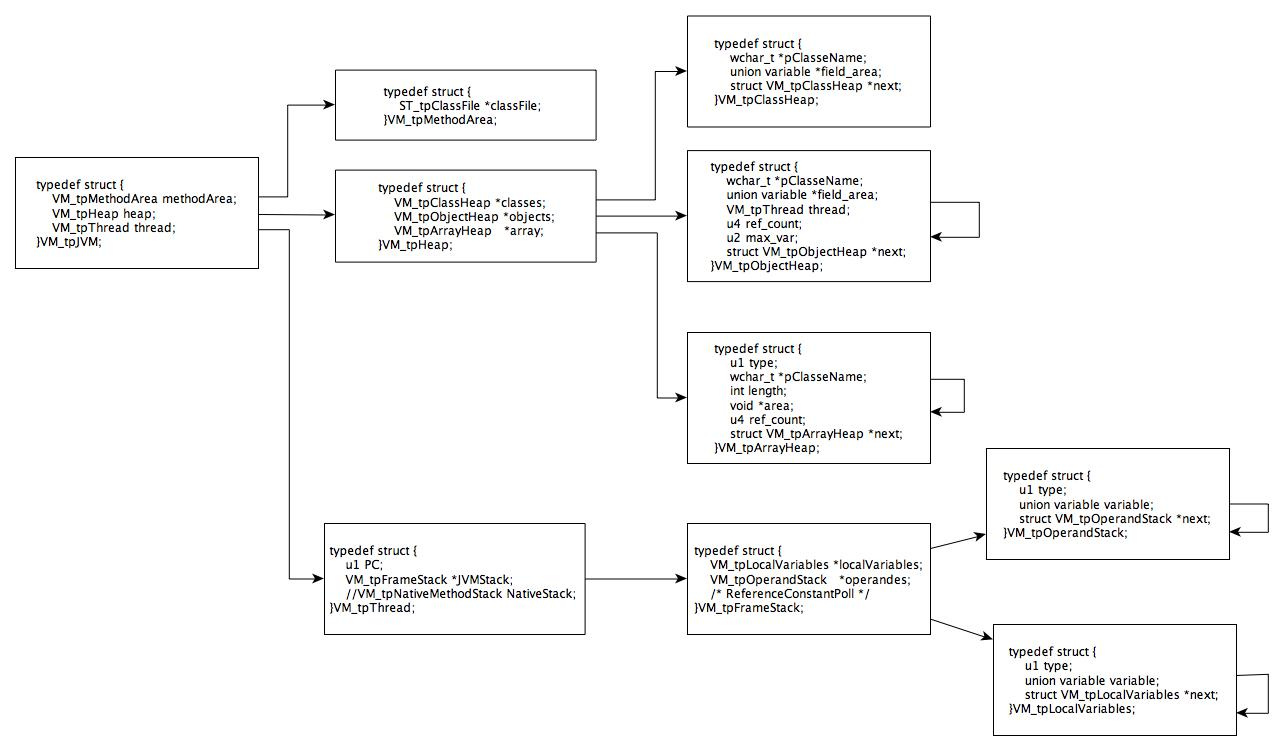
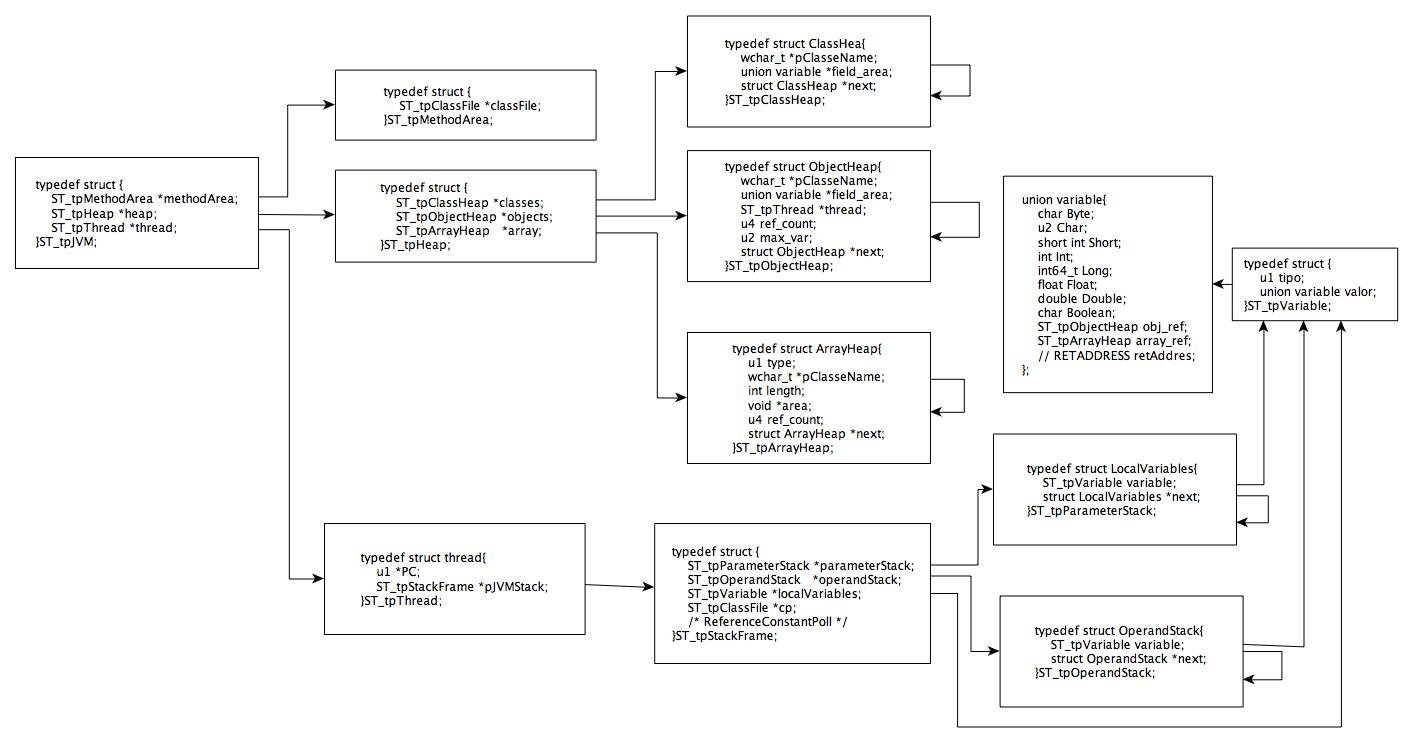
criando funções de frame e de objeto de heap

diff --git a/LEITOR-EXIBIDOR/virtualMachine.c b/LEITOR-EXIBIDOR/virtualMachine.c
@@ -49,7 +49,7 @@ ST_tpThread *VM_criarThread(){
     ST_tpThread *pThread;
     
     pThread = malloc(sizeof(ST_tpThread));
-    pThread->pFrameStack = NULL;
+    pThread->pJVMStack = NULL;
     pThread->PC = 0;
     
     return pThread;
@@ -66,24 +66,52 @@ ST_tpJVM *VM_criarJVM(){
     return pJvm;
 }
 
-ST_tpFrame *VM_criarFrame(ST_tpClassFile *pClasse){
-
-    ST_tpFrame *pFrame = (ST_tpFrame *) malloc(sizeof(ST_tpFrame));
-    
-    pFrame->operandStack = PL_criarPilhaOperandos();
-    pFrame->localVariablesStack = PL_criarPilhaParametros();
-    pFrame->cp = pClasse;
-    
-    return pFrame;
+void VM_armazenarVariavel(ST_tpVariable *pVariaveisLocais, ST_tpVariable variavel, int posicao){
+    memcpy((void *)(pVariaveisLocais + posicao), (void *) &variavel, sizeof(variavel));
 }
 
-void VM_executarMetodo(ST_tpJVM *pJVM, ST_tpClassFile *pClasse, ST_tpMethod_info *pMetodo){
-    int i, j;
+
+ST_tpVariable VM_recuperarVariavel(ST_tpVariable *pVariaveisLocais, int posicao){
+    ST_tpVariable varTemporaria;
+    
+    memcpy((void *)&varTemporaria, (void*)(pVariaveisLocais + posicao), sizeof(varTemporaria));
+    
+    return varTemporaria;
+}
+
+
+ST_tpStackFrame *VM_criarStackFrame(ST_tpStackFrame *pJVMStack, long maxStackSize){
+    int i;
+    ST_tpVariable varTemporaria;
+    
+    pJVMStack = (ST_tpStackFrame *) malloc(sizeof(ST_tpStackFrame));
+    pJVMStack->operandStack     = PL_criarPilhaOperandos();
+    pJVMStack->parameterStack   = PL_criarPilhaParametros(); // AINDA NAO ESTA RECEBENDO OS PARAMETROS PASSADOS PELO METODO
+    pJVMStack->localVariables   = (ST_tpVariable *) malloc(sizeof(ST_tpVariable)*(maxStackSize));
+    
+    varTemporaria.tipo          = JREF;
+    varTemporaria.valor.obj_ref = NULL;
+    VM_armazenarVariavel(pJVMStack->localVariables, varTemporaria, 0);
+    
+    i = 0;
+    while(pJVMStack->parameterStack != NULL){
+        
+        varTemporaria = PL_popParametro(pJVMStack->parameterStack);
+        VM_armazenarVariavel(pJVMStack->localVariables, varTemporaria, i);
+        i++;
+        if(varTemporaria.tipo == JLONG || varTemporaria.tipo == JDOUBLE) i++;
+    }
+    
+    return pJVMStack;
+}
+
+void VM_executarMetodo(ST_tpThread *pThread, ST_tpClassFile *pClasse, ST_tpMethod_info *pMetodo){
+    int i;
     u1* end;
     u2 nameIndex;
     char *name;
     ST_tpCode_attribute *pCode;
-    ST_tpFrame *pFrame;
+    ST_tpStackFrame *pFrame;
     
     for(i = 0; i < pMetodo->attributes_count; i++){
         nameIndex = pMetodo->attributes[i].attribute_name_index-1;
@@ -91,18 +119,18 @@ void VM_executarMetodo(ST_tpJVM *pJVM, ST_tpClassFile *pClasse, ST_tpMethod_info
         
         if(strcmp(name, "Code") == 0){
             
-            /* Cria uma Frame para ser inserido na lista de Frames da thread */
-            pFrame = VM_criarFrame(pClasse);
+            /* Cria uma Stack Frame */
+            pFrame = VM_criarStackFrame(pThread->pJVMStack, ((ST_tpCode_attribute*)pMetodo->attributes[i].info)->max_locals);
             
-            /* Se a pilha de Frames da Thread ainda estiver vazia */
+            /* Se a pilha de Frames da Thread ainda estiver vazia
             if(pJVM->thread->pFrameStack == NULL){
                 pJVM->thread->pFrameStack = (ST_tpPilha *) malloc(sizeof(ST_tpPilha));
                 pJVM->thread->pFrameStack->dado = pFrame;
                 pJVM->thread->pFrameStack->prox = NULL;
             }
-            else{ /* Caso a pilha de Frames da Thread ainda nao estijavazia */
-                PL_push(&pJVM->thread->pFrameStack, pFrame); /* Insere Frame na lista de Frames da Thread */
-            }
+            else{  Caso a pilha de Frames da Thread ainda nao estijavazia
+                PL_push(&pJVM->thread->pFrameStack, pFrame);  Insere Frame na lista de Frames da Thread
+            } */
             // EXECUTAR CODIGO
             /* Carregando codigos */
             pCode = (ST_tpCode_attribute *) malloc(sizeof(ST_tpCode_attribute));
@@ -140,11 +168,11 @@ void VM_executarMetodo(ST_tpJVM *pJVM, ST_tpClassFile *pClasse, ST_tpMethod_info
             
             pCode->attribute_info = (ST_tpAttribute_info *) malloc(pCode->attributes_count); // VERIFICAR SE TEM A MULTIPLICACAO MESMO?
             
-            pJVM->thread->PC = (u1 *)pCode->code;
-            end = pJVM->thread->PC + pCode->code_length;
-            while(pJVM->thread->PC < end){
-                IT_executaInstrucao(pJVM->thread); // VERIFICAR ONDE EXECUTA AS EXCESSOES
-                pJVM->thread->PC++;
+            pThread->PC = (u1 *)pCode->code;
+            end = pThread->PC + pCode->code_length;
+            while(pThread->PC < end){
+                IT_executaInstrucao(pThread); // VERIFICAR ONDE EXECUTA AS EXCESSOES
+                pThread->PC++;
             }
             
             // VERIFICAR COMO FAZER O RETORNO DA FUNCAO
@@ -152,7 +180,7 @@ void VM_executarMetodo(ST_tpJVM *pJVM, ST_tpClassFile *pClasse, ST_tpMethod_info
     }
 }
 
-ST_tpMethod_info *VM_procuraMetodo(ST_tpClassFile *pClassFile, char *descritorMetodo, char *nomeMetodo) {
+ST_tpMethod_info *VM_procurarMetodo(ST_tpClassFile *pClassFile, char *descritorMetodo, char *nomeMetodo) {
     char *name, *descritor;
     u2 nameIndex, descritorIndex;
     
@@ -168,12 +196,42 @@ ST_tpMethod_info *VM_procuraMetodo(ST_tpClassFile *pClassFile, char *descritorMe
     }
     return NULL;
 }
+ST_tpObjectHeap *VM_criarObjeto(ST_tpJVM *pJVM, ST_tpClassFile *pClassFile){
+    int maxVariaveis;
+    char *nome;
+    ST_tpClassFile *pClasseAux;
+    ST_tpObjectHeap *pObjeto = (ST_tpObjectHeap *)malloc(sizeof(ST_tpObjectHeap));
+    
+    maxVariaveis = pClassFile->fields_count;
+    
+    while(pClassFile->super_class != 0 ){
+        nome = (char*) pClassFile->constant_pool_table[pClassFile->super_class].info.Utf8.bytes;
+        pClasseAux = PL_buscarClasse(pJVM, nome);
+        
+        /* Carregar Super Classe */
+        if(pClasseAux == NULL){
+            pClasseAux = LE_carregarClasse(nome);
+            /* Insere classe carregada na lista de classes carregadas da JVM */
+            PL_inserirClasseTopo(pJVM, pClasseAux);
+        }
+        maxVariaveis += pClasseAux->fields_count;
+    }
+    wcscpy(pObjeto->pClasseName, (wchar_t *)pClassFile->constant_pool_table[pClassFile->this_class].info.Utf8.bytes);
+    pObjeto->field_area = (ST_tpVariable *)malloc(sizeof(ST_tpVariable) * (maxVariaveis + 1));
+    pObjeto->thread = pJVM->thread;
+    pObjeto->max_var = maxVariaveis;
+    pObjeto->ref_count = 0;
+    pObjeto->next = NULL;
+    
+    return pObjeto;
+}
 
 ST_tpJVM *VM_exucutarJVM(int numeroClasses, char *nomeClasses[]){
     int i, flag1, flag2;
 
     ST_tpJVM *pJVM;
     ST_tpClassFile *pClasse;
+    ST_tpObjectHeap *pObjeto;
     ST_tpMethod_info *pMetodo;
     
     /* Cria a maquina virtual, a area de metodos, o heap e uma thread*/
@@ -190,9 +248,13 @@ ST_tpJVM *VM_exucutarJVM(int numeroClasses, char *nomeClasses[]){
     /* Procurando a primeira classe que tem o main */
     for(pClasse = pJVM->methodArea->classFile; pClasse != NULL; pClasse = pClasse->next){
         
-        pMetodo = VM_procuraMetodo( pClasse, "(I)V", "<init>");
+        pMetodo = VM_procurarMetodo( pClasse, "(I)V", "<init>");
         if (pMetodo != NULL){
-            VM_executarMetodo(pJVM, pClasse, pMetodo);
+            pObjeto = VM_criarObjeto(pJVM, pClasse);
+            
+            // FALTA INSERIR OBJETO NA PILHA DE HEAP
+            
+            VM_executarMetodo(pJVM->thread, pClasse, pMetodo);
         }
         /* Procura metodo <init> e o executa
         for(i = 0; i < pClasse->methods_count; i++){

diff --git a/LEITOR-EXIBIDOR/structures.h b/LEITOR-EXIBIDOR/structures.h
@@ -56,6 +56,23 @@ typedef uint32_t u4;
 #define ACC_ENUM            0x4000
 
 /** ******************************************************************************
+ *                            JVM DATA TYPES
+ ** ******************************************************************************/
+
+#define JBOOL   0X00
+#define JBYTE   0X01
+#define JCHAR   0X02
+#define JSTRING 0X03
+#define JSHORT  0X04
+#define JVOID   0X05
+#define JREF    0X06
+#define JAREF   0X07
+#define JINT    0X08
+#define JLONG   0X16
+#define JFLOAT  0X32
+#define JDOUBLE 0X64
+
+/** ******************************************************************************
 *                            TEBELA POOL DE CONSTANTES
 ** *******************************************************************************/
 
@@ -74,12 +91,12 @@ typedef uint32_t u4;
 
 /**                             DEFINICOES DE TAGS PARA ATRIBUTOS                                    **/
 #define CONSTANTVALUE       1
-#define CODE       2
-#define EXCEPTIONS       3
-#define INNERCLASSES       4
-#define SOURCEFILE       5
-#define LINENUMBERTABLE       6
-#define LOCALVARIABLETABLE       7
+#define CODE                2
+#define EXCEPTIONS          3
+#define INNERCLASSES        4
+#define SOURCEFILE          5
+#define LINENUMBERTABLE     6
+#define LOCALVARIABLETABLE  7
 
 /**                             ESTRUTURAS                                         **/
 
@@ -317,8 +334,7 @@ typedef struct{
 /** ******************************************************************************
 *                                ESTRUTURA CLASSFILE
 ** *******************************************************************************/
-typedef struct ClassFile{
-    wchar_t *fully_qualified_name;    
+typedef struct ClassFile{   
     u4    magic;                        // Assinatura de um arquivo .class
     u2    minor_version_number;         // Versao minima do arquivo - Relacao com a versao do Java
     u2    major_version_number;         // Versao manima do arquivo - Relacao com a versao do Java
@@ -352,30 +368,30 @@ typedef struct ClassFile{
 typedef struct thread ST_tpThread;
 
 /**  Estrutura que representa o Heap de classes */
-typedef struct {
+typedef struct ClassHea{
     wchar_t *pClasseName;
-    union variable *field_area;
-    struct VM_tpClassHeap *next;
+    struct Variable *field_area;
+    struct ClassHeap *next;
 }ST_tpClassHeap;
 
 /**  Estrutura que representa o Heap para objetos */
-typedef struct{
+typedef struct ObjectHeap{
     wchar_t *pClasseName;
-    union variable *field_area;
+    struct Variable *field_area;
     ST_tpThread *thread;
     u4 ref_count;
     u2 max_var;
-    struct VM_tpObjectHeap *next;
+    struct ObjectHeap *next;
 }ST_tpObjectHeap;
 
 /**  Estrutura que representa o Heap para array */
-typedef struct{
+typedef struct ArrayHeap{
     u1 type;
     wchar_t *pClasseName;
     int length;
     void *area;
     u4 ref_count;
-    struct VM_tpArrayHeap *next;
+    struct ArrayHeap *next;
 }ST_tpArrayHeap;
 
 /**  Estrutura que representa o Heap Geral */
@@ -398,12 +414,12 @@ union variable{
     float Float;
     double Double;
     char Boolean;
-    ST_tpObjectHeap obj_ref;
-    ST_tpArrayHeap array_ref;
+    ST_tpObjectHeap *obj_ref;
+    ST_tpArrayHeap *array_ref;
     // RETADDRESS retAddres;
 };
 
-typedef struct {
+typedef struct Variable{
     u1 tipo;                /* Tipo da variavel */
     union variable valor;   /* Valor da variavel */
 }ST_tpVariable;
@@ -439,17 +455,18 @@ typedef struct OperandStack{
 
 /**  Estrutura que representa um Frame */
 typedef struct {
-    ST_tpParameterStack *localVariablesStack;
+    ST_tpParameterStack *parameterStack;
     ST_tpOperandStack   *operandStack;
+    ST_tpVariable *localVariables;
     ST_tpClassFile *cp;
     /* ReferenceConstantPoll */
-}ST_tpFrame;
+}ST_tpStackFrame;
 
 /**  Estrutura que representa uma thread */
 typedef struct thread{
     u1 *PC;
-    ST_tpPilha *pFrameStack; /* Ponteiro para lista de frames da Thread */
-    //VM_tpNativeMethodStack NativeStack;
+    ST_tpStackFrame *pJVMStack; /* Ponteiro para lista de frames da Thread */
+    //ST_tpNativeMethodStack NativeStack;
 }ST_tpThread;
 
 /** ******************************************************************************

diff --git a/LEITOR-EXIBIDOR/virtualMachine.h b/LEITOR-EXIBIDOR/virtualMachine.h
@@ -36,7 +36,7 @@ void VM_inserirClasseCarregada(ST_tpJVM *pJvm, ST_tpClassFile *pClasse);
 
 ST_tpJVM *VM_exucutarJVM(int numeroClasses, char *nomeClasses[]);
 
-void VM_executarMetodo(ST_tpJVM *pJVM, ST_tpClassFile *pClasse, ST_tpMethod_info *pMetodo);
+void VM_executarMetodo(ST_tpThread *pThread, ST_tpClassFile *pClasse, ST_tpMethod_info *pMetodo);
 
 #endif /* virtualMachine_h */
 

diff --git a/LEITOR-EXIBIDOR/funcoes.c b/LEITOR-EXIBIDOR/funcoes.c
@@ -13,7 +13,7 @@
 *	Para ler algum argumento do code incremente o PC usando 
 	thread->PC ++;
 */
-void* IT_executaInstrucao(ST_tpThread* thread) {
+void IT_executaInstrucao(ST_tpThread* thread) {
 	u1 opcode = *(thread->PC);
 	printf("%d \t", opcode);
 
